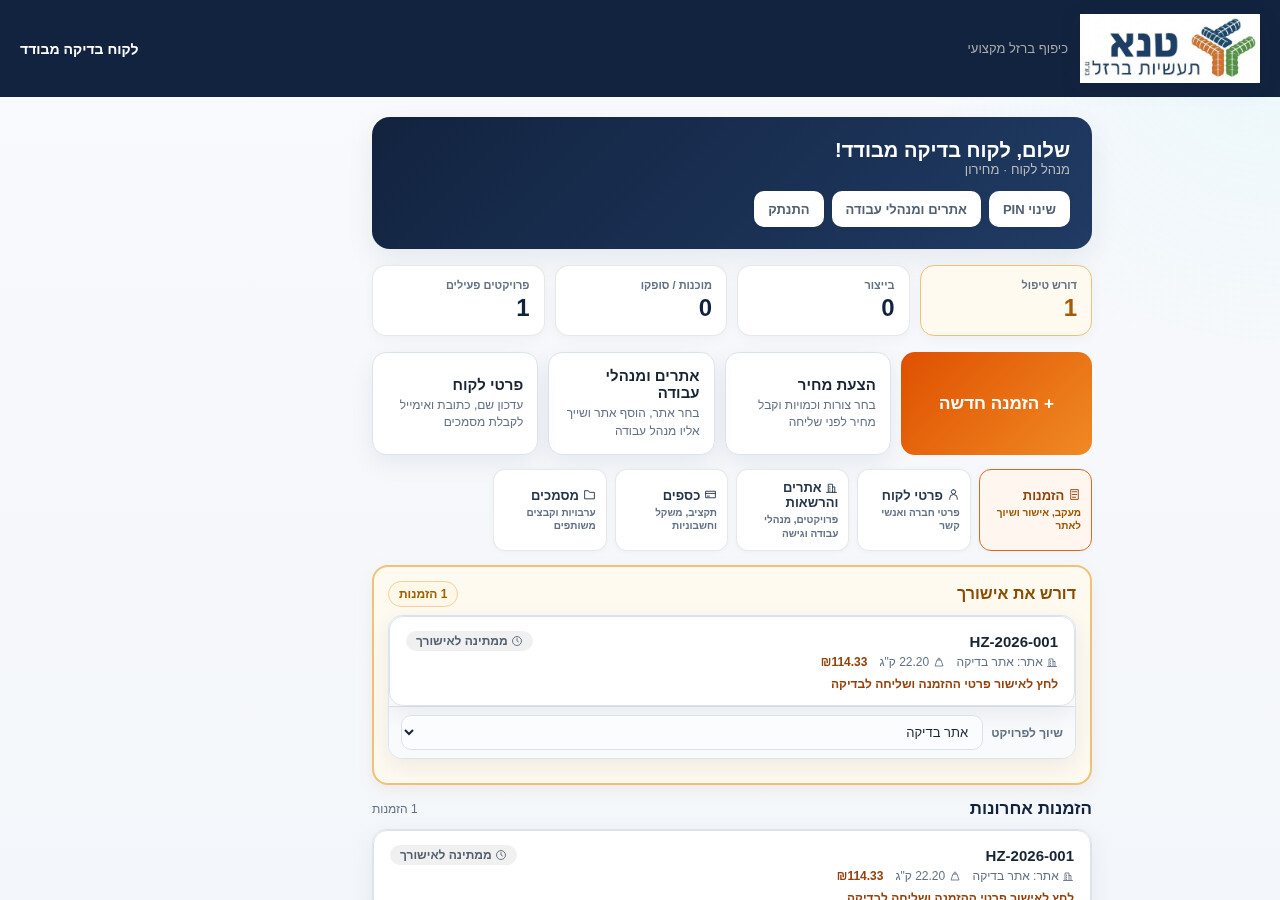
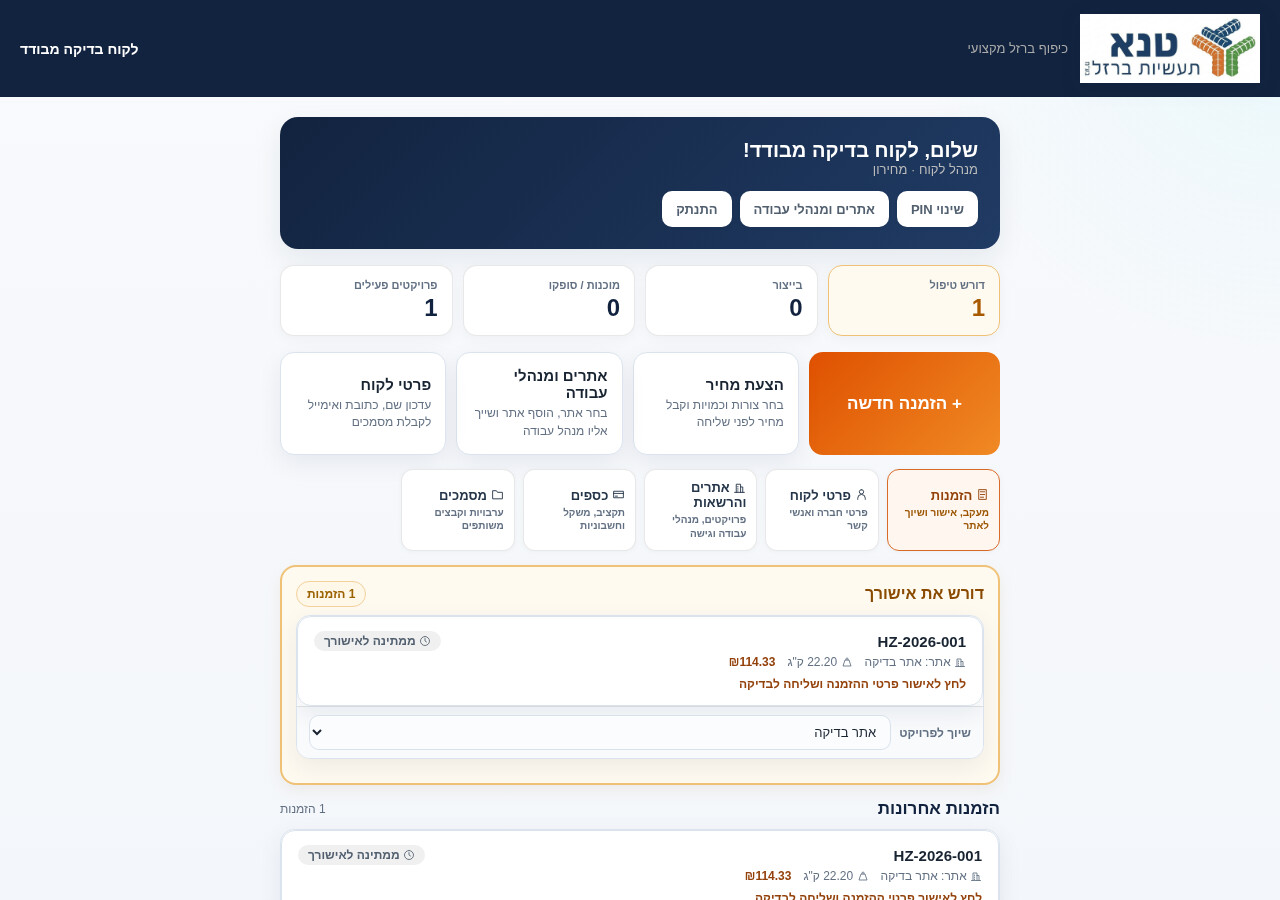
Address customer portal PR review regressions

diff --git a/public/customer.html b/public/customer.html
@@ -27,6 +27,7 @@
     #toast.err{background:var(--red)}
 
     /* ── Screen ── */
+    body > main{margin-inline:auto}
     .screen{display:none;padding:20px;max-width:600px;margin:0 auto}
     #screenHome{max-width:760px}
     #screenOrder{max-width:980px}
@@ -2426,9 +2427,12 @@ function portalItemShapeMetrics(item = {}) {
     }) : {};
   const totalLengthMm = metrics.totalLengthMm ?? (Number(item.total_length_mm || 0) || (item.sides || []).reduce((sum, side) => sum + (Number(side) || 0), 0));
   const diameter = portalItemDiameter(item);
-  const unitWeightKg = metrics.unitWeightKg ?? window.IronBendSteelRebarShapes.buildBarsShapeContract({
-    sides: [totalLengthMm], diameter,
-  }).calculated.unitWeightKg;
+  const barUnitWeightKg = (totalLengthMm / 1000) * window.IronBendRebar.kgPerMeter(diameter);
+  // The editor snapshot rounds the unit weight. Price the draft from its geometry.
+  if (snapshot?.family === 'bars' && snapshot.source === 'shape-editor') {
+    return { totalLengthMm, unitWeightKg: barUnitWeightKg, totalWeightKg: barUnitWeightKg * qty, quantity: qty };
+  }
+  const unitWeightKg = metrics.unitWeightKg ?? barUnitWeightKg;
   const totalWeightKg = metrics.totalWeightKg ?? (Number(item.total_weight || 0) || unitWeightKg * qty);
   return { totalLengthMm, unitWeightKg, totalWeightKg, quantity: qty };
 }
@@ -2843,8 +2847,8 @@ function renderItemRow(item, num) {
 
   const segsHtml = item.sides.map((s,i) => `
     <div>
-      <input class="seg-input" type="number" inputmode="decimal" min="0" step="0.1" value="${IronBendDisplayUnits.millimetersToCentimeters(s) ?? ''}"
-        onchange="updateSeg(${item.id},${i},IronBendDisplayUnits.centimetersToMillimeters(this.value)||0)"
+      <input class="seg-input" type="number" inputmode="decimal" min="0" step="0.1" value="${window.IronBendDisplayUnits.millimetersToCentimeters(s) ?? ''}"
+        onchange="updateSeg(${item.id},${i},window.IronBendDisplayUnits.centimetersToMillimeters(this.value)||0)"
         placeholder="${i===0?'ס"מ':''}" style="width:70px"/>
       <div class="seg-label">קטע ${i+1}</div>
     </div>
@@ -3060,7 +3064,7 @@ function portalShapeSelected(data) {
 }
 
 function formatMm(value) {
-  return IronBendDisplayUnits.formatLengthCmFromMm(value);
+  return window.IronBendDisplayUnits.formatLengthCmFromMm(value);
 }
 
 function formatDateTime(value) {
@@ -3094,7 +3098,7 @@ function renderPortalFileList() {
   }
   el.innerHTML = portalSourceFiles.map(file => '<span class="attached-doc">' + portalIcon('attachment') + ' ' + escapeHtml(file.name)
     + (file.uploaded ? ' · הועלה' : file.file ? '' : ' · יש לבחור מחדש') + '</span>').join('')
-    + (createdOrderId ? '<button type="button" class="btn btn-secondary btn-sm" onclick="submitOrder()">נסה שוב להעלות מסמכים</button>' : '');
+    + (createdOrderId && portalSourceFiles.some(file => !file.uploaded) ? '<button type="button" class="btn btn-secondary btn-sm" onclick="submitOrder()">נסה שוב להעלות מסמכים</button>' : '');
 }
 
 async function uploadSourceDocuments(orderId) {
@@ -3175,7 +3179,7 @@ function shapePreviewSvg(item) {
       }
     }
   } catch(e) {}
-  const label = sides.length ? IronBendDisplayUnits.formatLengthCmFromMm(sides.reduce((a,b)=>a+b,0)) : 'צורה';
+  const label = sides.length ? window.IronBendDisplayUnits.formatLengthCmFromMm(sides.reduce((a,b)=>a+b,0)) : 'צורה';
   return `<svg viewBox="0 0 112 88" aria-hidden="true">
     <path d="M16 44 H96" fill="none" stroke="#0e5a78" stroke-width="7" stroke-linecap="round"/>
     <text x="56" y="32" text-anchor="middle" font-size="11" font-weight="800" fill="#1a1a2e">${escapeHtml(label)}</text>
@@ -3311,8 +3315,9 @@ async function performPortalOrderSubmit(event) {
       ? '\n\nמסמכי מקור שצורפו בפורטל לבדיקה משרדית: ' + portalSourceFiles.map(file => file.name).join(', ')
       : '';
     portalSubmissionUserId = PORTAL_USER?.id ?? null;
+    ensurePortalDraftKey();
     portalPendingOrder = {
-      idempotency_key: ensurePortalDraftKey(),
+      idempotency_key: portalDraftIdempotencyKey,
       items: orderItems.map(portalOrderItemPayload),
       deliveryDate: date.value,
       deliveryTime: document.getElementById('delivTime').value,

diff --git a/test/customer-portal-values.test.js b/test/customer-portal-values.test.js
@@ -96,11 +96,15 @@ test('quote and submission use identical item bodies and clear state for the nex
   await client.run('calcQuote()');
   assert.match(client.element('priceBreakdown').innerHTML, /5%/);
   assert.match(client.element('priceBreakdown').innerHTML, /93\.24/);
+  const homeCalls = [];
+  client.context.showHome = async (...args) => { homeCalls.push(args); };
   await client.run('submitOrder()');
   assert.deepEqual(sent[0].body.items, sent[1].body.items);
-  client.run('showHome = async () => {};');
-  await client.timers.find(timer => timer.delay === 1200).fn();
+  assert.ok(sent[1].body.idempotency_key);
+  assert.equal(homeCalls.length, 1);
+  assert.equal(homeCalls[0][1].replace, true);
   assert.equal(client.json('orderItems.length'), 0);
+  assert.equal(client.run('portalDraftIdempotencyKey'), null);
   assert.equal(client.element('submitOrderBtn').disabled, false);
 });
 
@@ -167,7 +171,8 @@ test('HTTP quote -> submission -> database -> detail -> print preserve the real 
       assert.equal(requote.billingPrice, quote.billingPrice, 'reopening the editor must not change units or values');
       near(portalShapeDraftToOrderItem(reopenedPayload).totalLengthMm, portalShapeDraftToOrderItem(payload).totalLengthMm);
     }
-    const result = await post('/api/c/order', { items: [payload], siteId, idempotency_key: 'values-' + scenario.name, deliveryDate: new Intl.DateTimeFormat('sv-SE', { timeZone: 'Asia/Jerusalem' }).format(), deliveryTime: '10:30', deliveryAddress: 'כתובת בדיקה', notes: 'הערת הזמנה' });
+    const deliveryDate = new Intl.DateTimeFormat('sv-SE', { timeZone: 'Asia/Jerusalem' }).format();
+    const result = await post('/api/c/order', { items: [payload], siteId, idempotency_key: 'values-' + scenario.name, deliveryDate, deliveryTime: '10:30', deliveryAddress: 'כתובת בדיקה', notes: 'הערת הזמנה' });
     const order = db.prepare('SELECT * FROM orders WHERE id=?').get(result.orderId);
     const item = db.prepare('SELECT * FROM items WHERE order_id=?').get(result.orderId);
     const expected = portalShapeDraftToOrderItem(payload);
@@ -186,7 +191,7 @@ test('HTTP quote -> submission -> database -> detail -> print preserve the real 
     near(client.json('portalItemShapeMetrics(orderItems[0])').totalWeightKg, expected.totalWeight, 0.005);
     near(quote.totalWeight, order.total_weight, 0.005);
     assert.equal(order.site_id, siteId);
-    assert.equal(order.delivery_date, '2026-10-01');
+    assert.equal(order.delivery_date, deliveryDate);
     assert.equal(order.delivery_time, '10:30');
     assert.equal(order.delivery_address, 'כתובת בדיקה');
     const snapshot = JSON.parse(item.shape_snapshot_json);

diff --git a/services/customerPortalShapeDraft.js b/services/customerPortalShapeDraft.js
@@ -1,7 +1,7 @@
 'use strict';
 
 const crypto = require('crypto');
-const { VALID_DIAMETERS } = require('../constants');
+const { VALID_DIAMETERS, rebarKgPerMeter } = require('../constants');
 const {
   calculateMesh,
   buildBarsShapeContract,
@@ -321,6 +321,8 @@ function buildBarsSnapshot(snapshot, rawData = {}) {
     elAngles: is3d ? rawData.elAngles : null,
     shapeType: snapshot.shapeType,
   });
+  const totalLengthMm = contract.calculated.unitLengthMm;
+  const weightPerUnit = (totalLengthMm / 1000) * rebarKgPerMeter(diameter);
   const shapeType = snapshot.shapeType || (sides.length === 1 ? 'straight_bar' : 'custom_bar');
   const shapeId = canonicalShapeId(snapshot.shapeId, `portal-${shapeType}-${crypto.randomUUID()}`);
   const shapeSnapshot = buildFullShapeSnapshot({
@@ -332,8 +334,8 @@ function buildBarsSnapshot(snapshot, rawData = {}) {
     displayName: cleanText(snapshot.displayName, shapeTypeLabel(shapeType)),
     data: { ...contract.data, segments: contract.generic.segments, shapeType },
     calculated: {
-      totalLengthMm: contract.calculated.unitLengthMm,
-      weightKg: contract.calculated.unitWeightKg,
+      totalLengthMm,
+      weightKg: weightPerUnit,
       bendCount: contract.calculated.bendCount,
     },
     machineOutput: { generic: contract.generic },
@@ -348,8 +350,8 @@ function buildBarsSnapshot(snapshot, rawData = {}) {
     sides,
     angles,
     segments: contract.generic.segments.map(segment => ({ length_mm: segment.lengthMm, angle_deg: segment.angle_deg })),
-    totalLengthMm: contract.calculated.unitLengthMm,
-    weightPerUnit: contract.calculated.unitWeightKg,
+    totalLengthMm,
+    weightPerUnit,
     shapeDimsText: buildDimsText(sides, angles),
   };
 }
@@ -532,7 +534,8 @@ function buildPortalShapeDraft(input = {}, ctx = {}) {
   }
   const elementName = cleanText(input.elementName ?? input.structElement ?? input.struct_element ?? input.shapeName, shapeTypeLabel(normalized.shapeType));
   const note = cleanText(input.note ?? input.noteForCustomer, '');
-  const { unitLengthMm: totalLengthMm, unitWeightKg: weightPerUnit } = buildBarsShapeContract(normalized).calculated;
+  const totalLengthMm = normalized.sides.reduce((sum, length) => sum + length, 0);
+  const weightPerUnit = (totalLengthMm / 1000) * rebarKgPerMeter(normalized.diameter);
   const totalWeight = weightPerUnit * normalized.quantity;
   const bendCount = normalized.angles.filter(angle => Number.isFinite(Number(angle)) && Math.abs(Number(angle) - 180) > 0.001).length;
   const segments = segmentsFromSides(normalized.sides, normalized.angles);

diff --git a/scripts/portal-quality.test.js b/scripts/portal-quality.test.js
@@ -54,7 +54,7 @@ async function isolatedPortal(t) {
 
 async function browserPage(t, width = 390) {
   const browser = await chromium.launch({
-    executablePath: process.env.PORTAL_CHROMIUM || '/usr/bin/chromium',
+    ...(process.env.PORTAL_CHROMIUM ? { executablePath: process.env.PORTAL_CHROMIUM } : {}),
     args: ['--no-sandbox'],
   });
   t.after(() => browser.close());
@@ -213,11 +213,16 @@ test('approval immediately updates home and physical weight agrees across the po
   assert.match(await page.locator('#priceBreakdown').innerText(), /22\.20/);
   await page.goBack();
   await page.locator('#screenHome').waitFor();
-  const card = page.locator('#ordersList .order-card').filter({ hasText: orderNum });
+  const orderList = page.locator('#ordersList');
+  const card = orderList.getByRole('button', { name: new RegExp(`${orderNum}.*ממתינה לאישורך`) });
   const bounds = await card.boundingBox();
   assert(bounds && bounds.y + Math.min(60, bounds.height) < 750, JSON.stringify(bounds));
   assert.match(await card.innerText(), /ממתינה לאישורך/);
   assert.match(await card.innerText(), /22\.20/);
+  await page.setViewportSize({ width: 1280, height: 900 });
+  const home = await page.locator('#screenHome').boundingBox();
+  assert(home && Math.abs(home.x - (1280 - home.x - home.width)) <= 1, JSON.stringify(home));
+  await page.setViewportSize({ width: 390, height: 844 });
   await assertAccessible(page, 'home');
   await card.click();
   const approve = page.getByRole('button', { name: 'אשר פרטים ושלח לבדיקה' });
@@ -229,8 +234,8 @@ test('approval immediately updates home and physical weight agrees across the po
   await page.getByText('פרטי ההזמנה אושרו ונשלחו לבדיקה', { exact: true }).waitFor();
   await page.goBack();
   await page.locator('#screenHome').waitFor();
-  assert.match(await card.innerText(), /נשלחה לבדיקה/);
-  assert.doesNotMatch(await card.innerText(), /ממתינה לאישורך/);
+  await orderList.getByRole('button', { name: new RegExp(`${orderNum}.*נשלחה לבדיקה`) }).waitFor();
+  assert.equal(await card.count(), 0);
 
   const html = await request(`orders/${orderId}/print`);
   assert.match(html.data, /22\.20/);
